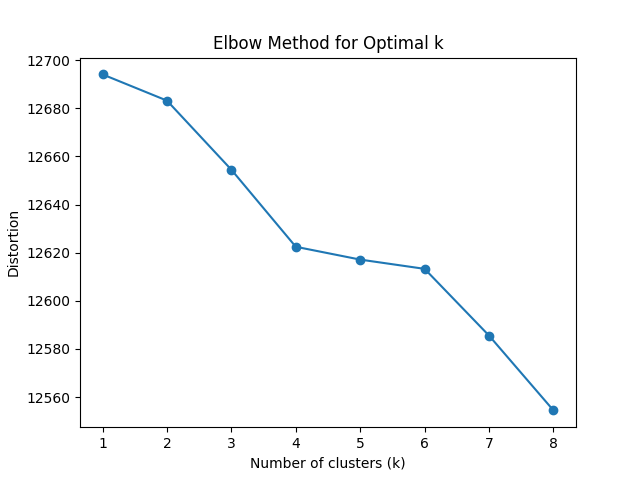
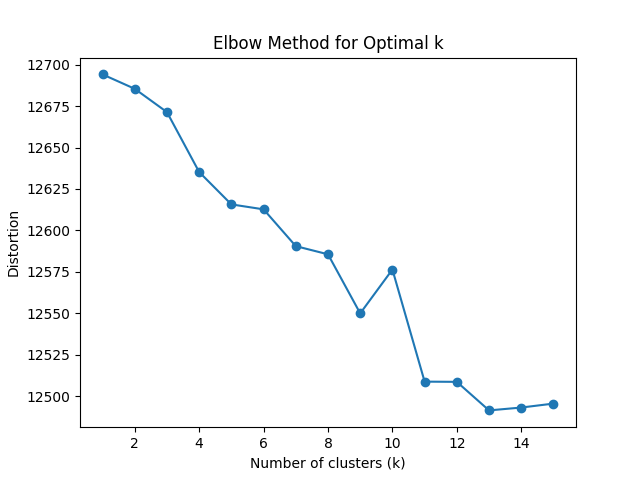
calculate optimal

diff --git a/k-mean_clustering_optimal.py b/k-mean_clustering_optimal.py
@@ -1,0 +1,65 @@
+import pickle
+import numpy as np
+import parmap
+
+from itertools import repeat
+from matplotlib import pyplot as plt
+from multiprocessing import Pool, cpu_count
+from sklearn.decomposition import TruncatedSVD
+from pyclustering.cluster.center_initializer import kmeans_plusplus_initializer
+from pyclustering.cluster.kmeans import kmeans
+from joblib import Parallel, delayed
+
+from tf_idf import MyTfidfVectorizer
+
+def process_kmeans(X, k):
+    initial_centers = kmeans_plusplus_initializer(X.todense(), k).initialize()
+    kmeans_instance = kmeans(X.todense(), initial_centers)
+    kmeans_instance.process() 
+    print(k)
+    return kmeans_instance.get_total_wce()
+
+if __name__ == "__main__":
+    print("Loading preprocessed data...", end='')
+    with open("preprocessed_ACL_PAPERS.pickle","rb") as f:
+        data = pickle.load(f)
+    print("Done")
+
+    abstracts = [paper.abstract for paper in data]
+    vectorizer = MyTfidfVectorizer()
+    X = vectorizer.fit_transform(abstracts)
+    important_words = vectorizer.get_important_words(X, k=20, threshold=0.17)
+
+
+    vectorizer = MyTfidfVectorizer()
+    X = vectorizer.fit_transform([' '.join(paper.keys()) for paper in important_words])
+
+    # # Standardize the data (important for K-means)
+    # scaler = StandardScaler(with_mean=False) # Set with_mean to False for sparse matrices
+    # tfidf_matrix_standardized = scaler.fit_transform(tfidf_matrix)
+
+    # K-means 클러스터링
+    print('--- start K-means clustering ---')
+    
+    # Use multiprocessing to process kmean in parallel
+    max_clusters=15
+    print('Processing K-means clustering...')
+    with Pool(cpu_count()) as pool:
+        distortions = pool.starmap(process_kmeans, zip(repeat(X), range(1, max_clusters + 1)))
+    
+    print('Done')
+
+    # Plot the elbow graph 
+    plt.plot(range(1, max_clusters + 1), distortions, marker='o')
+    plt.xlabel('Number of clusters (k)')
+    plt.ylabel('Distortion')
+    plt.title('Elbow Method for Optimal k')
+    plt.savefig("output/k-means/Elbow Method.png")
+    # plt.close()
+
+    # Find the optimal k based on the elbow point
+    # num_clusters = 4
+    num_clusters = np.argmin(distortions) + 1
+    print(f"The optimal number of clusters (k) is: {num_clusters}")
+
+   
